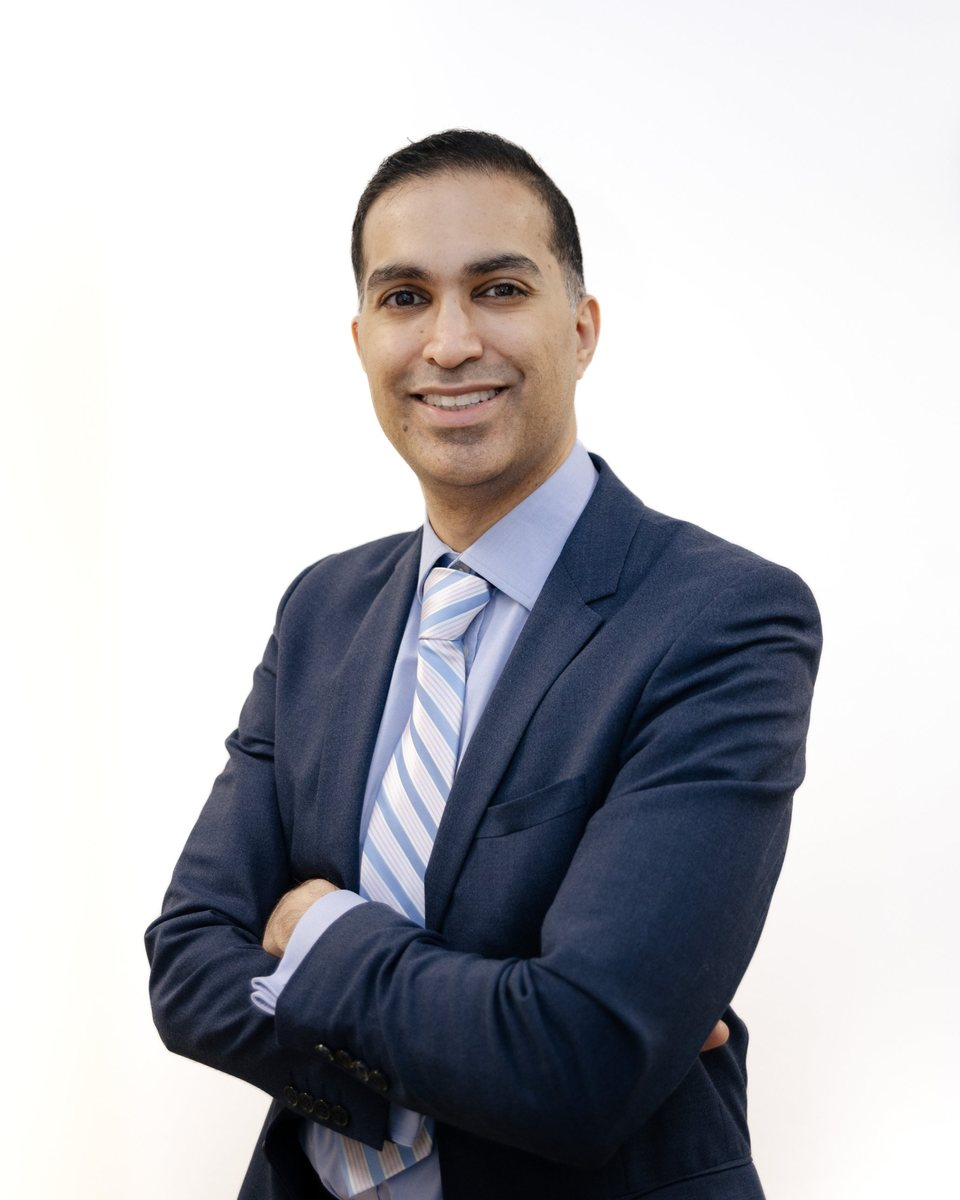
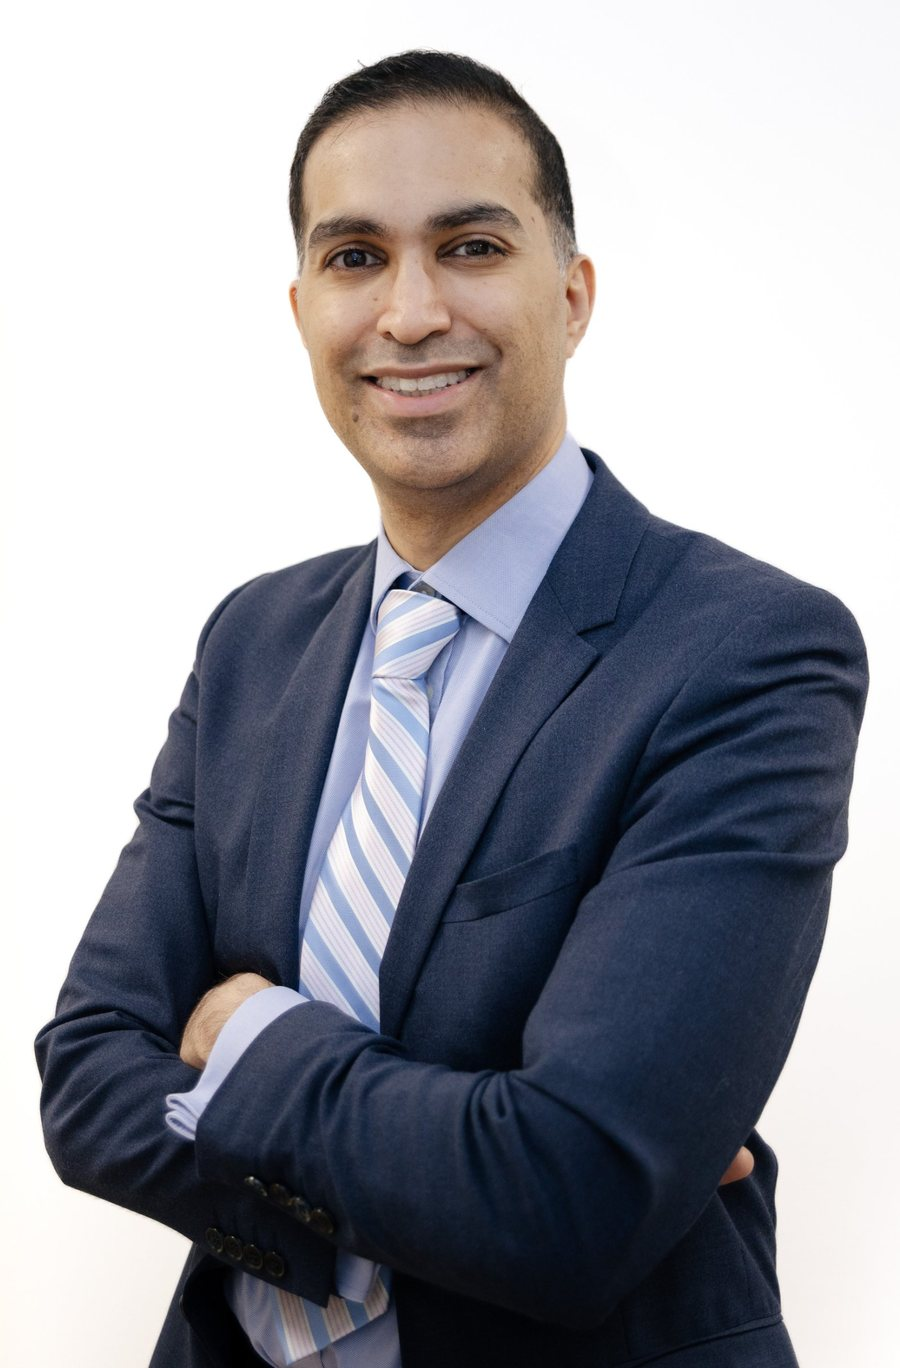
Home photo cropped tight on white background
Claude-Session: https://claude.ai/code/session_01Qj9Me5qhcF2y9SeBomMYBH

diff --git a/index.html b/index.html
@@ -14,7 +14,7 @@
 <link rel="icon" type="image/png" href="assets/favicon.png">
 <link rel="apple-touch-icon" href="assets/apple-touch-icon.png">
 <link rel="preconnect" href="https://fonts.googleapis.com"><link rel="preconnect" href="https://fonts.gstatic.com" crossorigin><link rel="stylesheet" href="https://fonts.googleapis.com/css2?family=Cinzel:wght@500&family=Cormorant+Garamond:wght@500;600&family=Source+Sans+3:wght@400;600&display=swap">
-<link rel="stylesheet" href="styles.css?v=2eac9fcb">
+<link rel="stylesheet" href="styles.css?v=0c36c249">
 <script>(function(){var d=document.documentElement,q=false,f=false,m=false,seen=false;try{q=/[?&]intro/.test(location.search);f=/[?&]intro=force/.test(location.search);}catch(e){}try{m=!!(window.matchMedia&&matchMedia('(prefers-reduced-motion: reduce)').matches);}catch(e){}try{seen=!!sessionStorage.getItem('ak-intro');}catch(e){}if(f||(!m&&(q||!seen))){d.classList.add('intro-on');setTimeout(function(){d.classList.remove('intro-on');},14000);}})();</script>
 </head>
 <body>
@@ -60,7 +60,7 @@
         <div class="doctify-slot breakdown"><iframe id="0bd4khn1" class="doctify-widget" title="Doctify rating breakdown for Mr Aman Khanna" src="https://www.doctify.com/wv2/average-category-rating-widget?containerId=0bd4khn1&widgetName=average-category-rating-widget&tenantId=athena-uk&language=en&profileType=specialist&theme=darkNavy&slugs=aman-khanna" width="100%" frameborder="0" scrolling="no" name="average-category-rating-widget">Browser does not support frames</iframe><script type="text/javascript" src="https://www.doctify.com/wv2/doctify-widget-autoresize-plugin.js?tenantId=athena-uk&widgetName=average-category-rating-widget&containerId=0bd4khn1"></script></div>
         <p class="hero-note">Ratings from verified patient reviews on <a href="https://www.doctify.com/uk/specialist/aman-khanna" target="_blank" rel="noopener">Doctify</a>.</p>
       </div>
-      <img class="hero-photo" src="assets/aman-home.jpg" alt="Mr Aman Khanna, Consultant ENT Surgeon" width="960" height="1200">
+      <img class="hero-photo" src="assets/aman-home.jpg" alt="Mr Aman Khanna, Consultant ENT Surgeon" width="900" height="1368">
     </div>
   </div>
 </section>
@@ -243,6 +243,6 @@
     <button type="button" class="cookie-btn cookie-decline" data-choice="declined">Decline</button>
   </div>
 </div>
-<script src="site.js?v=2eac9fcb"></script>
+<script src="site.js?v=0c36c249"></script>
 </body>
 </html>

diff --git a/farah/index.html b/farah/index.html
@@ -9,7 +9,7 @@
 <link rel="icon" type="image/png" href="../assets/favicon.png">
 <link rel="apple-touch-icon" href="../assets/apple-touch-icon.png">
 <link rel="preconnect" href="https://fonts.googleapis.com"><link rel="preconnect" href="https://fonts.gstatic.com" crossorigin><link rel="stylesheet" href="https://fonts.googleapis.com/css2?family=Cinzel:wght@500&family=Cormorant+Garamond:wght@500;600&family=Source+Sans+3:wght@400;600&display=swap">
-<link rel="stylesheet" href="../styles.css?v=2eac9fcb">
+<link rel="stylesheet" href="../styles.css?v=0c36c249">
 <script>(function(){var d=document.documentElement,q=false,f=false,m=false,seen=false;try{q=/[?&]intro/.test(location.search);f=/[?&]intro=force/.test(location.search);}catch(e){}try{m=!!(window.matchMedia&&matchMedia('(prefers-reduced-motion: reduce)').matches);}catch(e){}try{seen=!!sessionStorage.getItem('ak-intro');}catch(e){}if(f||(!m&&(q||!seen))){d.classList.add('intro-on');setTimeout(function(){d.classList.remove('intro-on');},14000);}})();</script>
 <link rel="stylesheet" href="https://fonts.googleapis.com/css2?family=Pacifico&display=swap"><link rel="stylesheet" href="zara.css"></head>
 <body>
@@ -232,7 +232,7 @@
     <button type="button" class="cookie-btn cookie-decline" data-choice="declined">Decline</button>
   </div>
 </div>
-<script src="../site.js?v=2eac9fcb"></script>
+<script src="../site.js?v=0c36c249"></script>
 <div class="snow" aria-hidden="true"></div>
 <script>(function(){if(matchMedia("(prefers-reduced-motion: reduce)").matches)return;var s=document.querySelector(".snow"),c=["&#10052;&#65039;","&#10052;","&#127800;","&#10053;"];for(var i=0;i<26;i++){var e=document.createElement("i");e.innerHTML=c[i%4];e.style.left=(Math.random()*100)+"vw";e.style.fontSize=(12+Math.random()*16)+"px";e.style.animationDuration=(9+Math.random()*12)+"s";e.style.animationDelay=(-Math.random()*20)+"s";s.appendChild(e);}})();</script>
 </body>

diff --git a/louise/index.html b/louise/index.html
@@ -9,7 +9,7 @@
 <link rel="icon" type="image/png" href="../assets/favicon.png">
 <link rel="apple-touch-icon" href="../assets/apple-touch-icon.png">
 <link rel="preconnect" href="https://fonts.googleapis.com"><link rel="preconnect" href="https://fonts.gstatic.com" crossorigin><link rel="stylesheet" href="https://fonts.googleapis.com/css2?family=Cinzel:wght@500&family=Cormorant+Garamond:wght@500;600&family=Source+Sans+3:wght@400;600&display=swap">
-<link rel="stylesheet" href="../styles.css?v=2eac9fcb">
+<link rel="stylesheet" href="../styles.css?v=0c36c249">
 <script>(function(){var d=document.documentElement,q=false,f=false,m=false,seen=false;try{q=/[?&]intro/.test(location.search);f=/[?&]intro=force/.test(location.search);}catch(e){}try{m=!!(window.matchMedia&&matchMedia('(prefers-reduced-motion: reduce)').matches);}catch(e){}try{seen=!!sessionStorage.getItem('ak-intro');}catch(e){}if(f||(!m&&(q||!seen))){d.classList.add('intro-on');setTimeout(function(){d.classList.remove('intro-on');},14000);}})();</script>
 <link rel="stylesheet" href="https://fonts.googleapis.com/css2?family=Pacifico&display=swap"><link rel="stylesheet" href="zara.css"></head>
 <body>
@@ -232,7 +232,7 @@
     <button type="button" class="cookie-btn cookie-decline" data-choice="declined">Decline</button>
   </div>
 </div>
-<script src="../site.js?v=2eac9fcb"></script>
+<script src="../site.js?v=0c36c249"></script>
 <div class="snow" aria-hidden="true"></div>
 <script>(function(){if(matchMedia("(prefers-reduced-motion: reduce)").matches)return;var s=document.querySelector(".snow"),c=["&#10052;&#65039;","&#10052;","&#127800;","&#10053;"];for(var i=0;i<26;i++){var e=document.createElement("i");e.innerHTML=c[i%4];e.style.left=(Math.random()*100)+"vw";e.style.fontSize=(12+Math.random()*16)+"px";e.style.animationDuration=(9+Math.random()*12)+"s";e.style.animationDelay=(-Math.random()*20)+"s";s.appendChild(e);}})();</script>
 </body>

diff --git a/zara/index.html b/zara/index.html
@@ -9,7 +9,7 @@
 <link rel="icon" type="image/png" href="../assets/favicon.png">
 <link rel="apple-touch-icon" href="../assets/apple-touch-icon.png">
 <link rel="preconnect" href="https://fonts.googleapis.com"><link rel="preconnect" href="https://fonts.gstatic.com" crossorigin><link rel="stylesheet" href="https://fonts.googleapis.com/css2?family=Cinzel:wght@500&family=Cormorant+Garamond:wght@500;600&family=Source+Sans+3:wght@400;600&display=swap">
-<link rel="stylesheet" href="../styles.css?v=2eac9fcb">
+<link rel="stylesheet" href="../styles.css?v=0c36c249">
 <script>(function(){var d=document.documentElement,q=false,f=false,m=false,seen=false;try{q=/[?&]intro/.test(location.search);f=/[?&]intro=force/.test(location.search);}catch(e){}try{m=!!(window.matchMedia&&matchMedia('(prefers-reduced-motion: reduce)').matches);}catch(e){}try{seen=!!sessionStorage.getItem('ak-intro');}catch(e){}if(f||(!m&&(q||!seen))){d.classList.add('intro-on');setTimeout(function(){d.classList.remove('intro-on');},14000);}})();</script>
 <link rel="stylesheet" href="https://fonts.googleapis.com/css2?family=Pacifico&display=swap"><link rel="stylesheet" href="zara.css"></head>
 <body>
@@ -232,7 +232,7 @@
     <button type="button" class="cookie-btn cookie-decline" data-choice="declined">Decline</button>
   </div>
 </div>
-<script src="../site.js?v=2eac9fcb"></script>
+<script src="../site.js?v=0c36c249"></script>
 <div class="snow" aria-hidden="true"></div>
 <script>(function(){if(matchMedia("(prefers-reduced-motion: reduce)").matches)return;var s=document.querySelector(".snow"),c=["&#10052;&#65039;","&#10052;","&#127800;","&#10053;"];for(var i=0;i<26;i++){var e=document.createElement("i");e.innerHTML=c[i%4];e.style.left=(Math.random()*100)+"vw";e.style.fontSize=(12+Math.random()*16)+"px";e.style.animationDuration=(9+Math.random()*12)+"s";e.style.animationDelay=(-Math.random()*20)+"s";s.appendChild(e);}})();</script>
 </body>

diff --git a/about.html b/about.html
@@ -14,7 +14,7 @@
 <link rel="icon" type="image/png" href="assets/favicon.png">
 <link rel="apple-touch-icon" href="assets/apple-touch-icon.png">
 <link rel="preconnect" href="https://fonts.googleapis.com"><link rel="preconnect" href="https://fonts.gstatic.com" crossorigin><link rel="stylesheet" href="https://fonts.googleapis.com/css2?family=Cinzel:wght@500&family=Cormorant+Garamond:wght@500;600&family=Source+Sans+3:wght@400;600&display=swap">
-<link rel="stylesheet" href="styles.css?v=2eac9fcb">
+<link rel="stylesheet" href="styles.css?v=0c36c249">
 
 </head>
 <body>
@@ -168,6 +168,6 @@
     <button type="button" class="cookie-btn cookie-decline" data-choice="declined">Decline</button>
   </div>
 </div>
-<script src="site.js?v=2eac9fcb"></script>
+<script src="site.js?v=0c36c249"></script>
 </body>
 </html>

diff --git a/book.html b/book.html
@@ -14,7 +14,7 @@
 <link rel="icon" type="image/png" href="assets/favicon.png">
 <link rel="apple-touch-icon" href="assets/apple-touch-icon.png">
 <link rel="preconnect" href="https://fonts.googleapis.com"><link rel="preconnect" href="https://fonts.gstatic.com" crossorigin><link rel="stylesheet" href="https://fonts.googleapis.com/css2?family=Cinzel:wght@500&family=Cormorant+Garamond:wght@500;600&family=Source+Sans+3:wght@400;600&display=swap">
-<link rel="stylesheet" href="styles.css?v=2eac9fcb">
+<link rel="stylesheet" href="styles.css?v=0c36c249">
 
 </head>
 <body>
@@ -176,6 +176,6 @@
     <button type="button" class="cookie-btn cookie-decline" data-choice="declined">Decline</button>
   </div>
 </div>
-<script src="site.js?v=2eac9fcb"></script>
+<script src="site.js?v=0c36c249"></script>
 </body>
 </html>

diff --git a/locations.html b/locations.html
@@ -14,7 +14,7 @@
 <link rel="icon" type="image/png" href="assets/favicon.png">
 <link rel="apple-touch-icon" href="assets/apple-touch-icon.png">
 <link rel="preconnect" href="https://fonts.googleapis.com"><link rel="preconnect" href="https://fonts.gstatic.com" crossorigin><link rel="stylesheet" href="https://fonts.googleapis.com/css2?family=Cinzel:wght@500&family=Cormorant+Garamond:wght@500;600&family=Source+Sans+3:wght@400;600&display=swap">
-<link rel="stylesheet" href="styles.css?v=2eac9fcb">
+<link rel="stylesheet" href="styles.css?v=0c36c249">
 
 </head>
 <body>
@@ -115,6 +115,6 @@
     <button type="button" class="cookie-btn cookie-decline" data-choice="declined">Decline</button>
   </div>
 </div>
-<script src="site.js?v=2eac9fcb"></script>
+<script src="site.js?v=0c36c249"></script>
 </body>
 </html>

diff --git a/privacy.html b/privacy.html
@@ -14,7 +14,7 @@
 <link rel="icon" type="image/png" href="assets/favicon.png">
 <link rel="apple-touch-icon" href="assets/apple-touch-icon.png">
 <link rel="preconnect" href="https://fonts.googleapis.com"><link rel="preconnect" href="https://fonts.gstatic.com" crossorigin><link rel="stylesheet" href="https://fonts.googleapis.com/css2?family=Cinzel:wght@500&family=Cormorant+Garamond:wght@500;600&family=Source+Sans+3:wght@400;600&display=swap">
-<link rel="stylesheet" href="styles.css?v=2eac9fcb">
+<link rel="stylesheet" href="styles.css?v=0c36c249">
 
 </head>
 <body>
@@ -109,6 +109,6 @@
     <button type="button" class="cookie-btn cookie-decline" data-choice="declined">Decline</button>
   </div>
 </div>
-<script src="site.js?v=2eac9fcb"></script>
+<script src="site.js?v=0c36c249"></script>
 </body>
 </html>

diff --git a/treatments.html b/treatments.html
@@ -14,7 +14,7 @@
 <link rel="icon" type="image/png" href="assets/favicon.png">
 <link rel="apple-touch-icon" href="assets/apple-touch-icon.png">
 <link rel="preconnect" href="https://fonts.googleapis.com"><link rel="preconnect" href="https://fonts.gstatic.com" crossorigin><link rel="stylesheet" href="https://fonts.googleapis.com/css2?family=Cinzel:wght@500&family=Cormorant+Garamond:wght@500;600&family=Source+Sans+3:wght@400;600&display=swap">
-<link rel="stylesheet" href="styles.css?v=2eac9fcb">
+<link rel="stylesheet" href="styles.css?v=0c36c249">
 
 </head>
 <body>
@@ -173,6 +173,6 @@
     <button type="button" class="cookie-btn cookie-decline" data-choice="declined">Decline</button>
   </div>
 </div>
-<script src="site.js?v=2eac9fcb"></script>
+<script src="site.js?v=0c36c249"></script>
 </body>
 </html>

diff --git a/styles.css b/styles.css
@@ -422,3 +422,6 @@ html { overflow-x: clip; }
 .hero-photo { aspect-ratio: 4 / 5; max-width: 440px; object-position: 50% 20%; }
 @media (max-width: 900px) { .hero-photo { max-width: 340px; justify-self: center; } }
 .portrait { aspect-ratio: 4 / 5; }
+
+.hero-photo { aspect-ratio: 900 / 1368; max-width: 400px; object-position: 50% 0; }
+@media (max-width: 900px) { .hero-photo { max-width: 320px; } }
